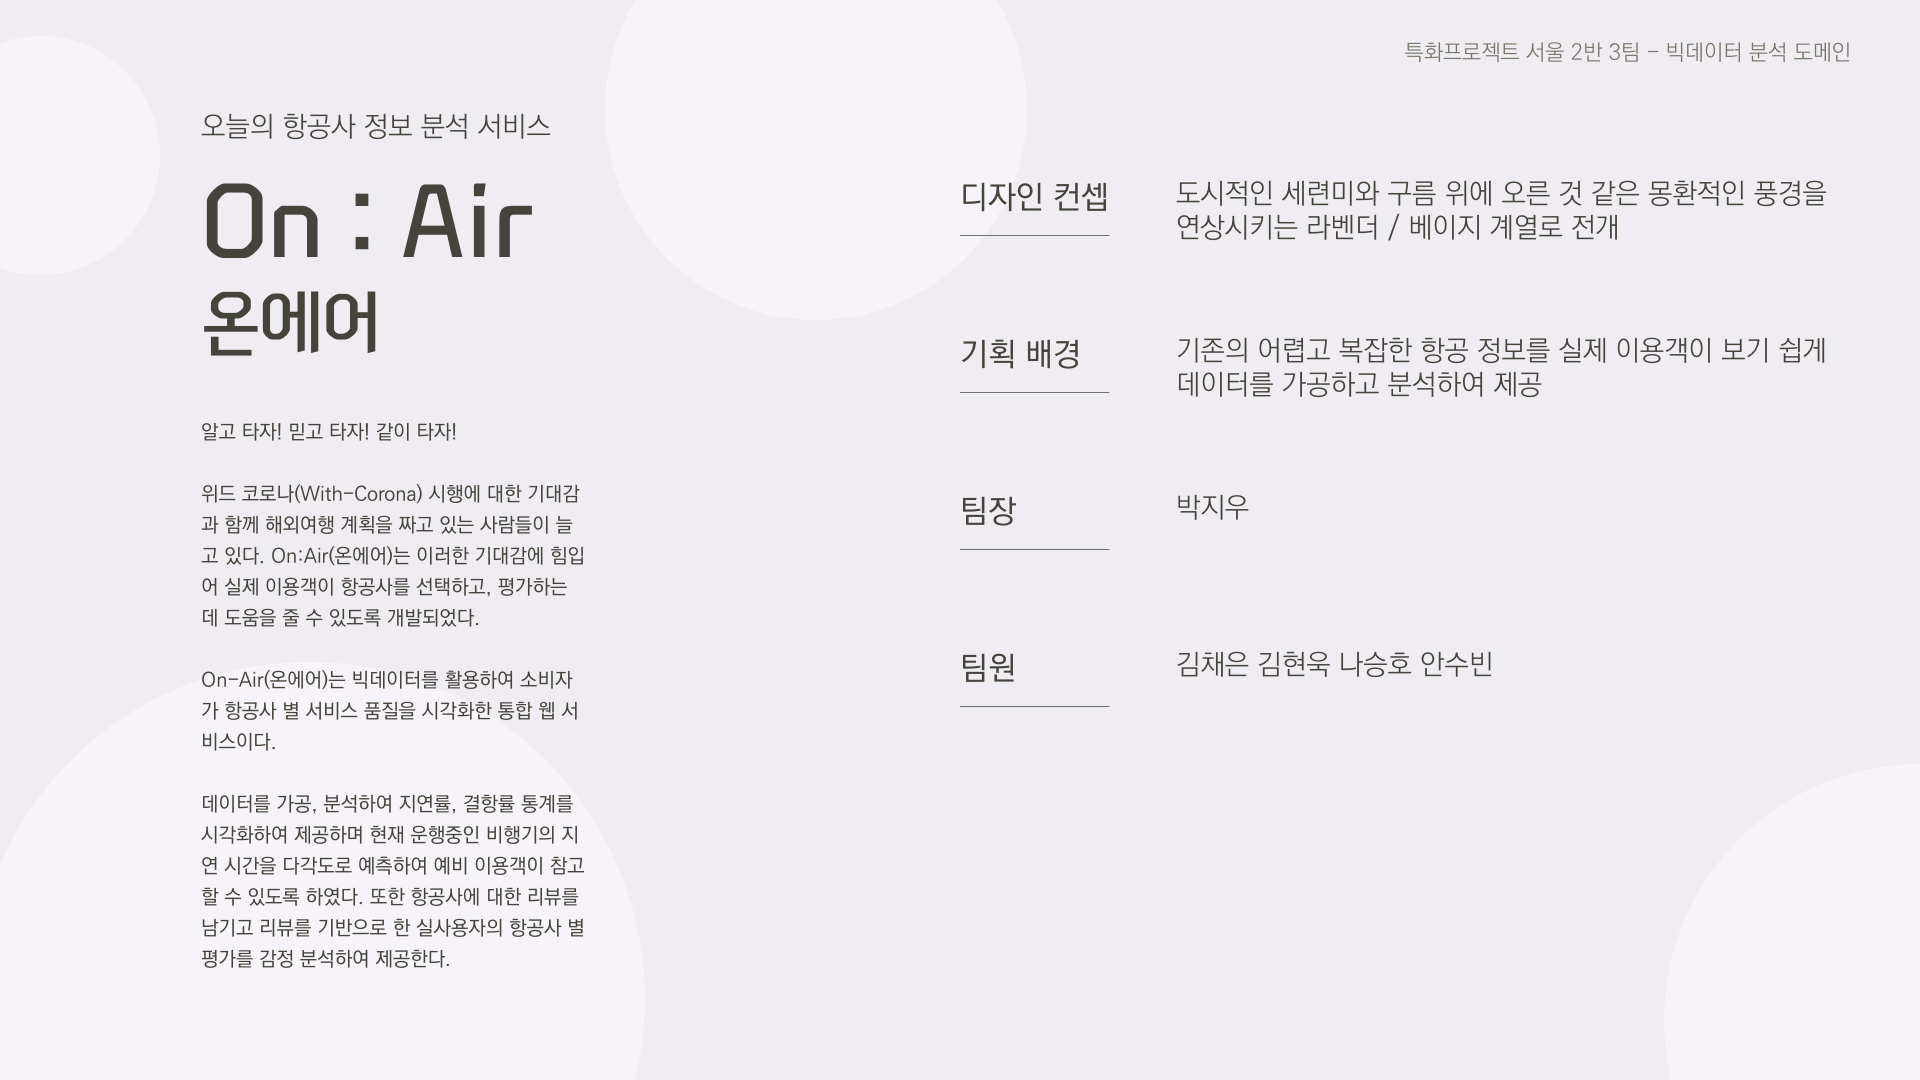
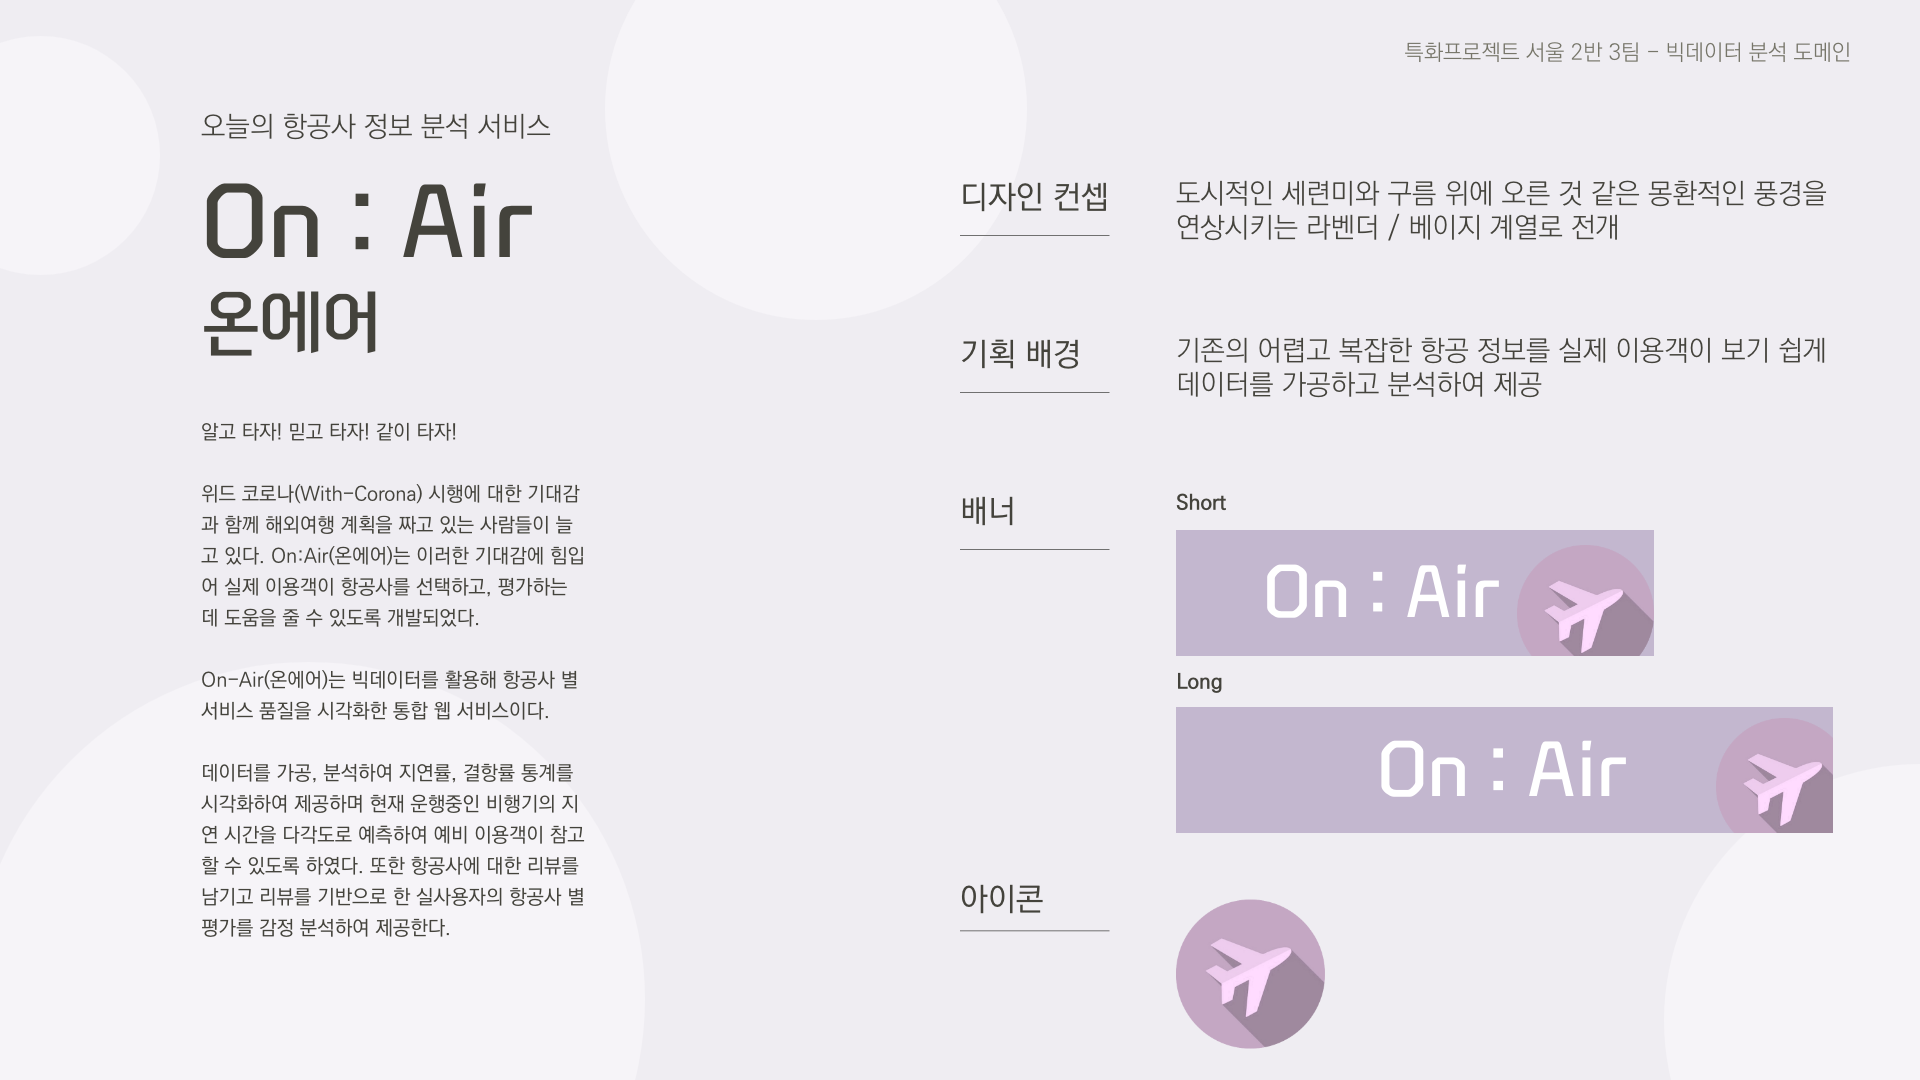
S05P21A203-213 Update README

diff --git a/README.md b/README.md
@@ -1,46 +1,158 @@
-# [A203] 분산 처리 시스템 이해 및 활용
+# On : Air 오늘의 항공 정보 분석 서비스 ✈ 
+
+
 
 ## 👥 팀원 소개
 
-### <center>[💫Team Notion](https://jiu-park.notion.site/8d8a98436ed448d38bc4381f707df3b5)</center>
+![banner-long](Document/IMG/banner-long.png)
 
 
+
+#### 알고 타자! 믿고 타자! 같이 타자!
+
+> 위드 코로나(With-Corona) 시행에 대한 기대감과 함께 해외여행 계획을 짜고 있는 사람들이 늘고 있다. On:Air(온에어)는 이러한 기대감에 힘입어 실제 이용객이 항공사를 선택하고, 평가하는 데 도움을 줄 수 있도록 개발되었다.
+>
+> 
+>
+> On-Air(온에어)는 빅데이터를 활용하여 소비자가 항공사 별 서비스 품질을 시각화한 통합 웹 서비스이다. 데이터를 가공, 분석하여 지연률, 결항률 통계를 시각화하여 제공하며 현재 운행중인 비행기의 지연 시간을 다각도로 예측하여 예비 이용객이 참고할 수 있도록 하였다. 또한 항공사에 대한 리뷰를 남기고 리뷰를 기반으로 한 실사용자의 항공사 별 평가를 감정 분석하여 제공한다.
+
+
+
+## 목차
+
+- [1⃣ 프로젝트 소개](#1⃣-프로젝트-소개)
+  - [📋 기술 스택](#📋 기술 스택)
+  - [🎨 컨셉 디자인](#🎨 컨셉 디자인)
+- [2⃣ 프로젝트 구조](#2⃣ 프로젝트 구조)
+  - Backend
+  - Frontend
+- 프로젝트 산출물
+- 프로젝트 결과물
+
+
+
+## 1⃣ 프로젝트 소개
+
+
+
+### <center>https://j5a203.p.ssafy.io</center>
+
+
+
+1. 일정 : 2021-08-30 ~ 2021-10-08 (총 6주)
+
+- Sub1 : 2021-08-30 ~ 2021-09-03 (1주)
+- Sub2 : 2021-09-06 ~ 2021-09-17 (2주)
+- Sub3 : 2021-09-20 ~ 2021-10-08 (🔥 NOW 🔥)
+
+2. 팀원
 
 |                                                              |                                                              |                                                              |                                                              |                                                              |
 | :----------------------------------------------------------: | :----------------------------------------------------------: | :----------------------------------------------------------: | :----------------------------------------------------------: | :----------------------------------------------------------: |
 |                          **박지우**                          |                          **김채은**                          |                          **김현욱**                          |                          **나승호**                          |                          **안수빈**                          |
 | [![Github](./Document/IMG/GitHub-Mark-64px.png)](https://github.com/nu1997) | [![Github](./Document/IMG/GitHub-Mark-64px.png)](https://github.com/chenni0531) | [![Github](./Document/IMG/GitHub-Mark-64px.png)](https://github.com/hyeonuk27) | [![Github](./Document/IMG/GitHub-Mark-64px.png)](https://github.com/qlfflwls5) | [![Github](./Document/IMG/GitHub-Mark-64px.png)](https://github.com/axxsxbxx) |
-|                       기획<br />디자인                       |                   기획<br />머신러닝(분석)                   |                   기획<br />머신러닝(분석)                   |                   기획<br />머신러닝(예측)                   |                       기획<br />크롤링                       |
+|                기획<br />디자인<br />통계, DB                |                   기획<br />머신러닝(분석)                   |                   기획<br />머신러닝(분석)                   |                   기획<br />머신러닝(예측)                   |                       기획<br />크롤링                       |
 
 
 
-## ✈ 프로젝트 소개
+### 📋 기술 스택
 
-- #### 기획배경
+1. 이슈관리 : Jira
+2. 형상관리 : Gitlab
+3. 커뮤니케이션 : Mattetmost, Notion. Slack
+4. 개발 환경
+   - OS : Windows 10
+   - IDE
+     - Visual Studio Code 1.58
+     - UI/UX : Adobe XD
+   - Database : MySQL Workbench 8.0.22
+   - Server : AWS EC2 (MobaXterm)
+     - Ubuntu 20.04.2 LTS
+     - Docker 20.10.7
+5. 상세 사용
+   - Backend
+     - Django 3.2.7
+   - Frontend
+     - HTML5, CSS3, JavaScript(ES6)
+     - Vue 2.6.11, Vuex 3.4.0
+   - AWS EC2
 
-  ##### 알고 타자! 믿고 타자! 같이 타자!
 
-  위드 코로나(With-Corona) 시행에 대한 기대감과 함께 해외여행 계획을 짜고 있는 사람들이 늘고 있다. On:Air(온에어)는 이러한 기대감에 힘입어 실제 이용객이 항공사를 선택하고, 평가하는 데 도움을 줄 수 있도록 개발되었다.
 
-  
+### 🎨 컨셉 디자인
 
-  On-Air(온에어)는 빅데이터를 활용하여 소비자가 항공사 별 서비스 품질을 시각화한 통합 웹 서비스이다. 데이터를 가공, 분석하여 지연률, 결항률 통계를 시각화하여 제공하며 현재 운행중인 비행기의 지연 시간을 다각도로 예측하여 예비 이용객이 참고할 수 있도록 하였다. 또한 항공사에 대한 리뷰를 남기고 리뷰를 기반으로 한 실사용자의 항공사 별 평가를 감정 분석하여 제공한다.
+![디자인-2](./Document/2_Definition/3_Design/1_Art/IMG/d-1.png)
 
-  
+![디자인-2](./Document/2_Definition/3_Design/1_Art/IMG/d-2.png)
 
-- #### 아키텍처
 
-  (사진추가예정)
 
-  
+## 2⃣ 프로젝트 구조
 
-- #### 디자인컨셉
+#### - Back
 
-  ![디자인-2](./Document/2_Definition/3_Design/1_Art/IMG/d-1.png)
+```
+server
+  ├── accounts
+  │   ├── models
+  │   ├── views
+  │   ├── serializers
+  │   └── urls
+  │
+  ├── airlines
+  │   ├── models
+  │   ├── views
+  │   ├── serializers
+  │   └── urls
+  │
+  ├── hadoop
+  │
+  └── server 
+  ├── statistics
+  ├── predict_models
+  └── npl
+```
 
-  ![디자인-2](./Document/2_Definition/3_Design/1_Art/IMG/d-2.png)
+#### - Front
 
-#### 
+```
+client
+├── node_modules
+├── public
+└── src
+	├── assets
+  │ 	
+	├── common
+	│ 	└── modules
+	├── components
+  │   ├── airline
+  │   ├── auth
+  │   ├── main
+  │   ├── page
+  │   │   ├── Footer
+  │   │   └── Navbar
+  │   └── profile
+  │    
+	└── views
+		├── airline
+		├── login
+		├── main
+		└── profile
+```
 
+
+
+## 3⃣ 프로젝트 산출물
+
+> 기술  및 운영 관련 문서
+
+- Architecture
+  - MySQL 연결
+  - EC2 시간 설정
+  - AWS EC2에 Spark 설치
 - 
+
+## 4⃣ 프로젝트 결과물
+
+기획 발표
 
